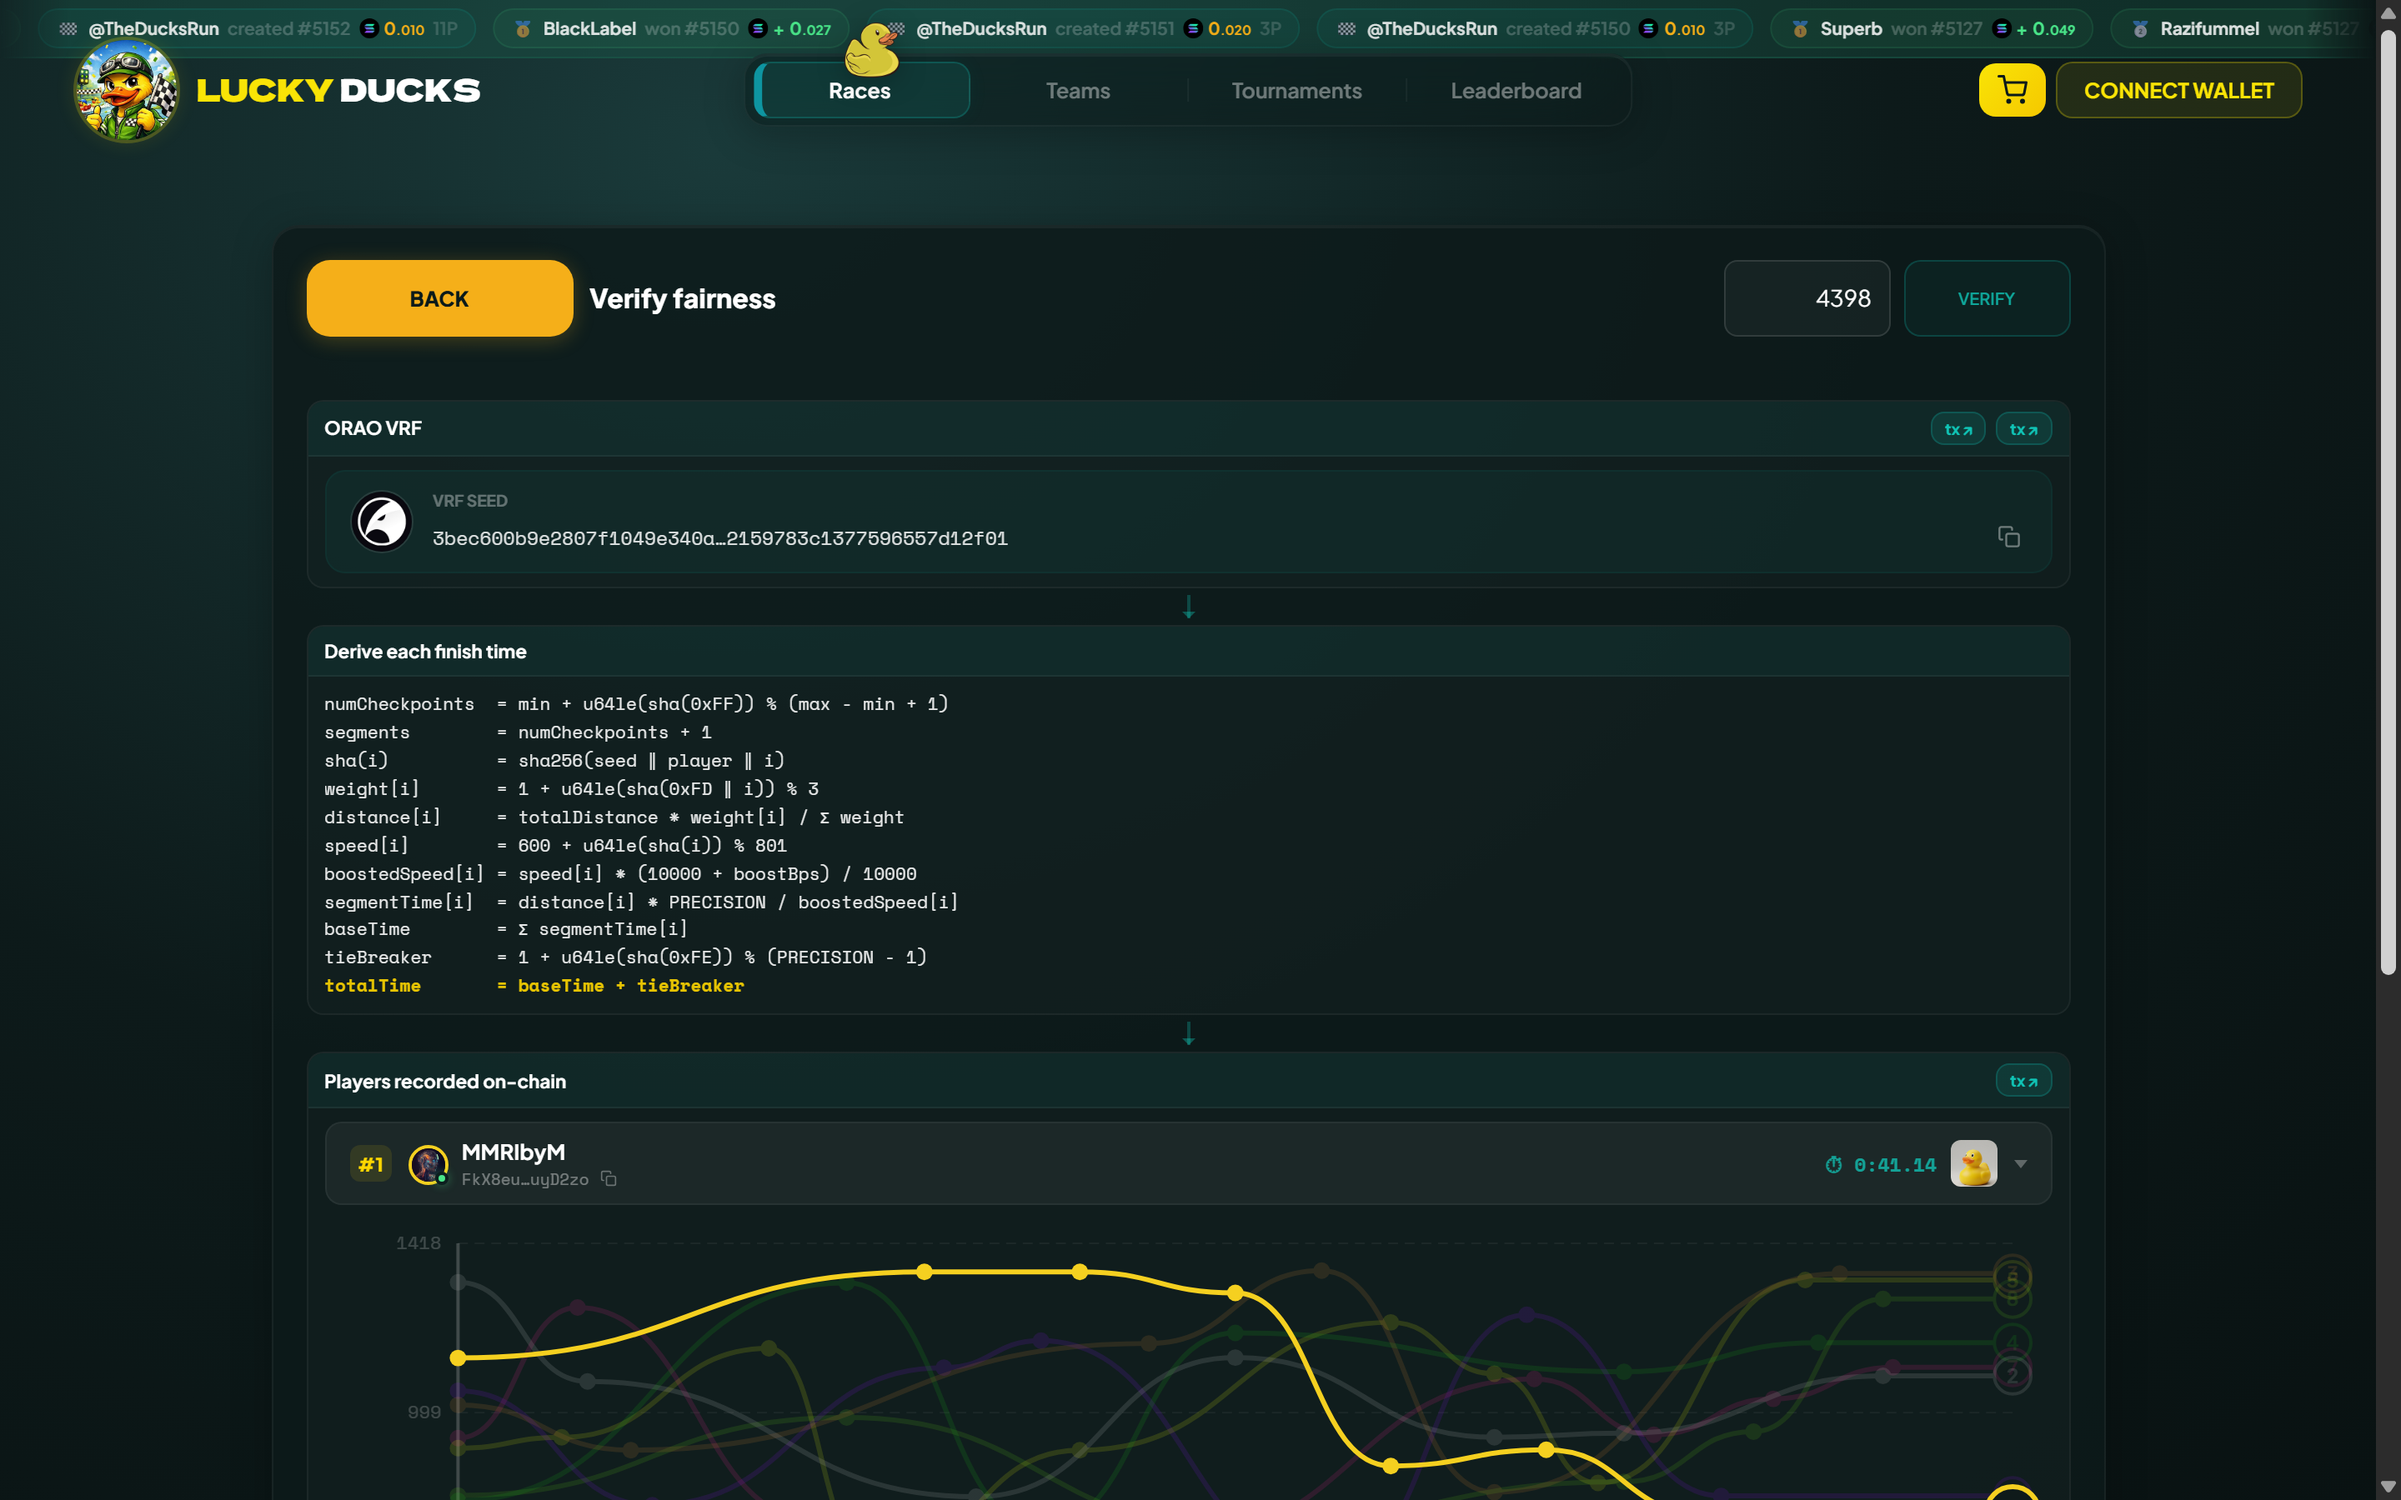
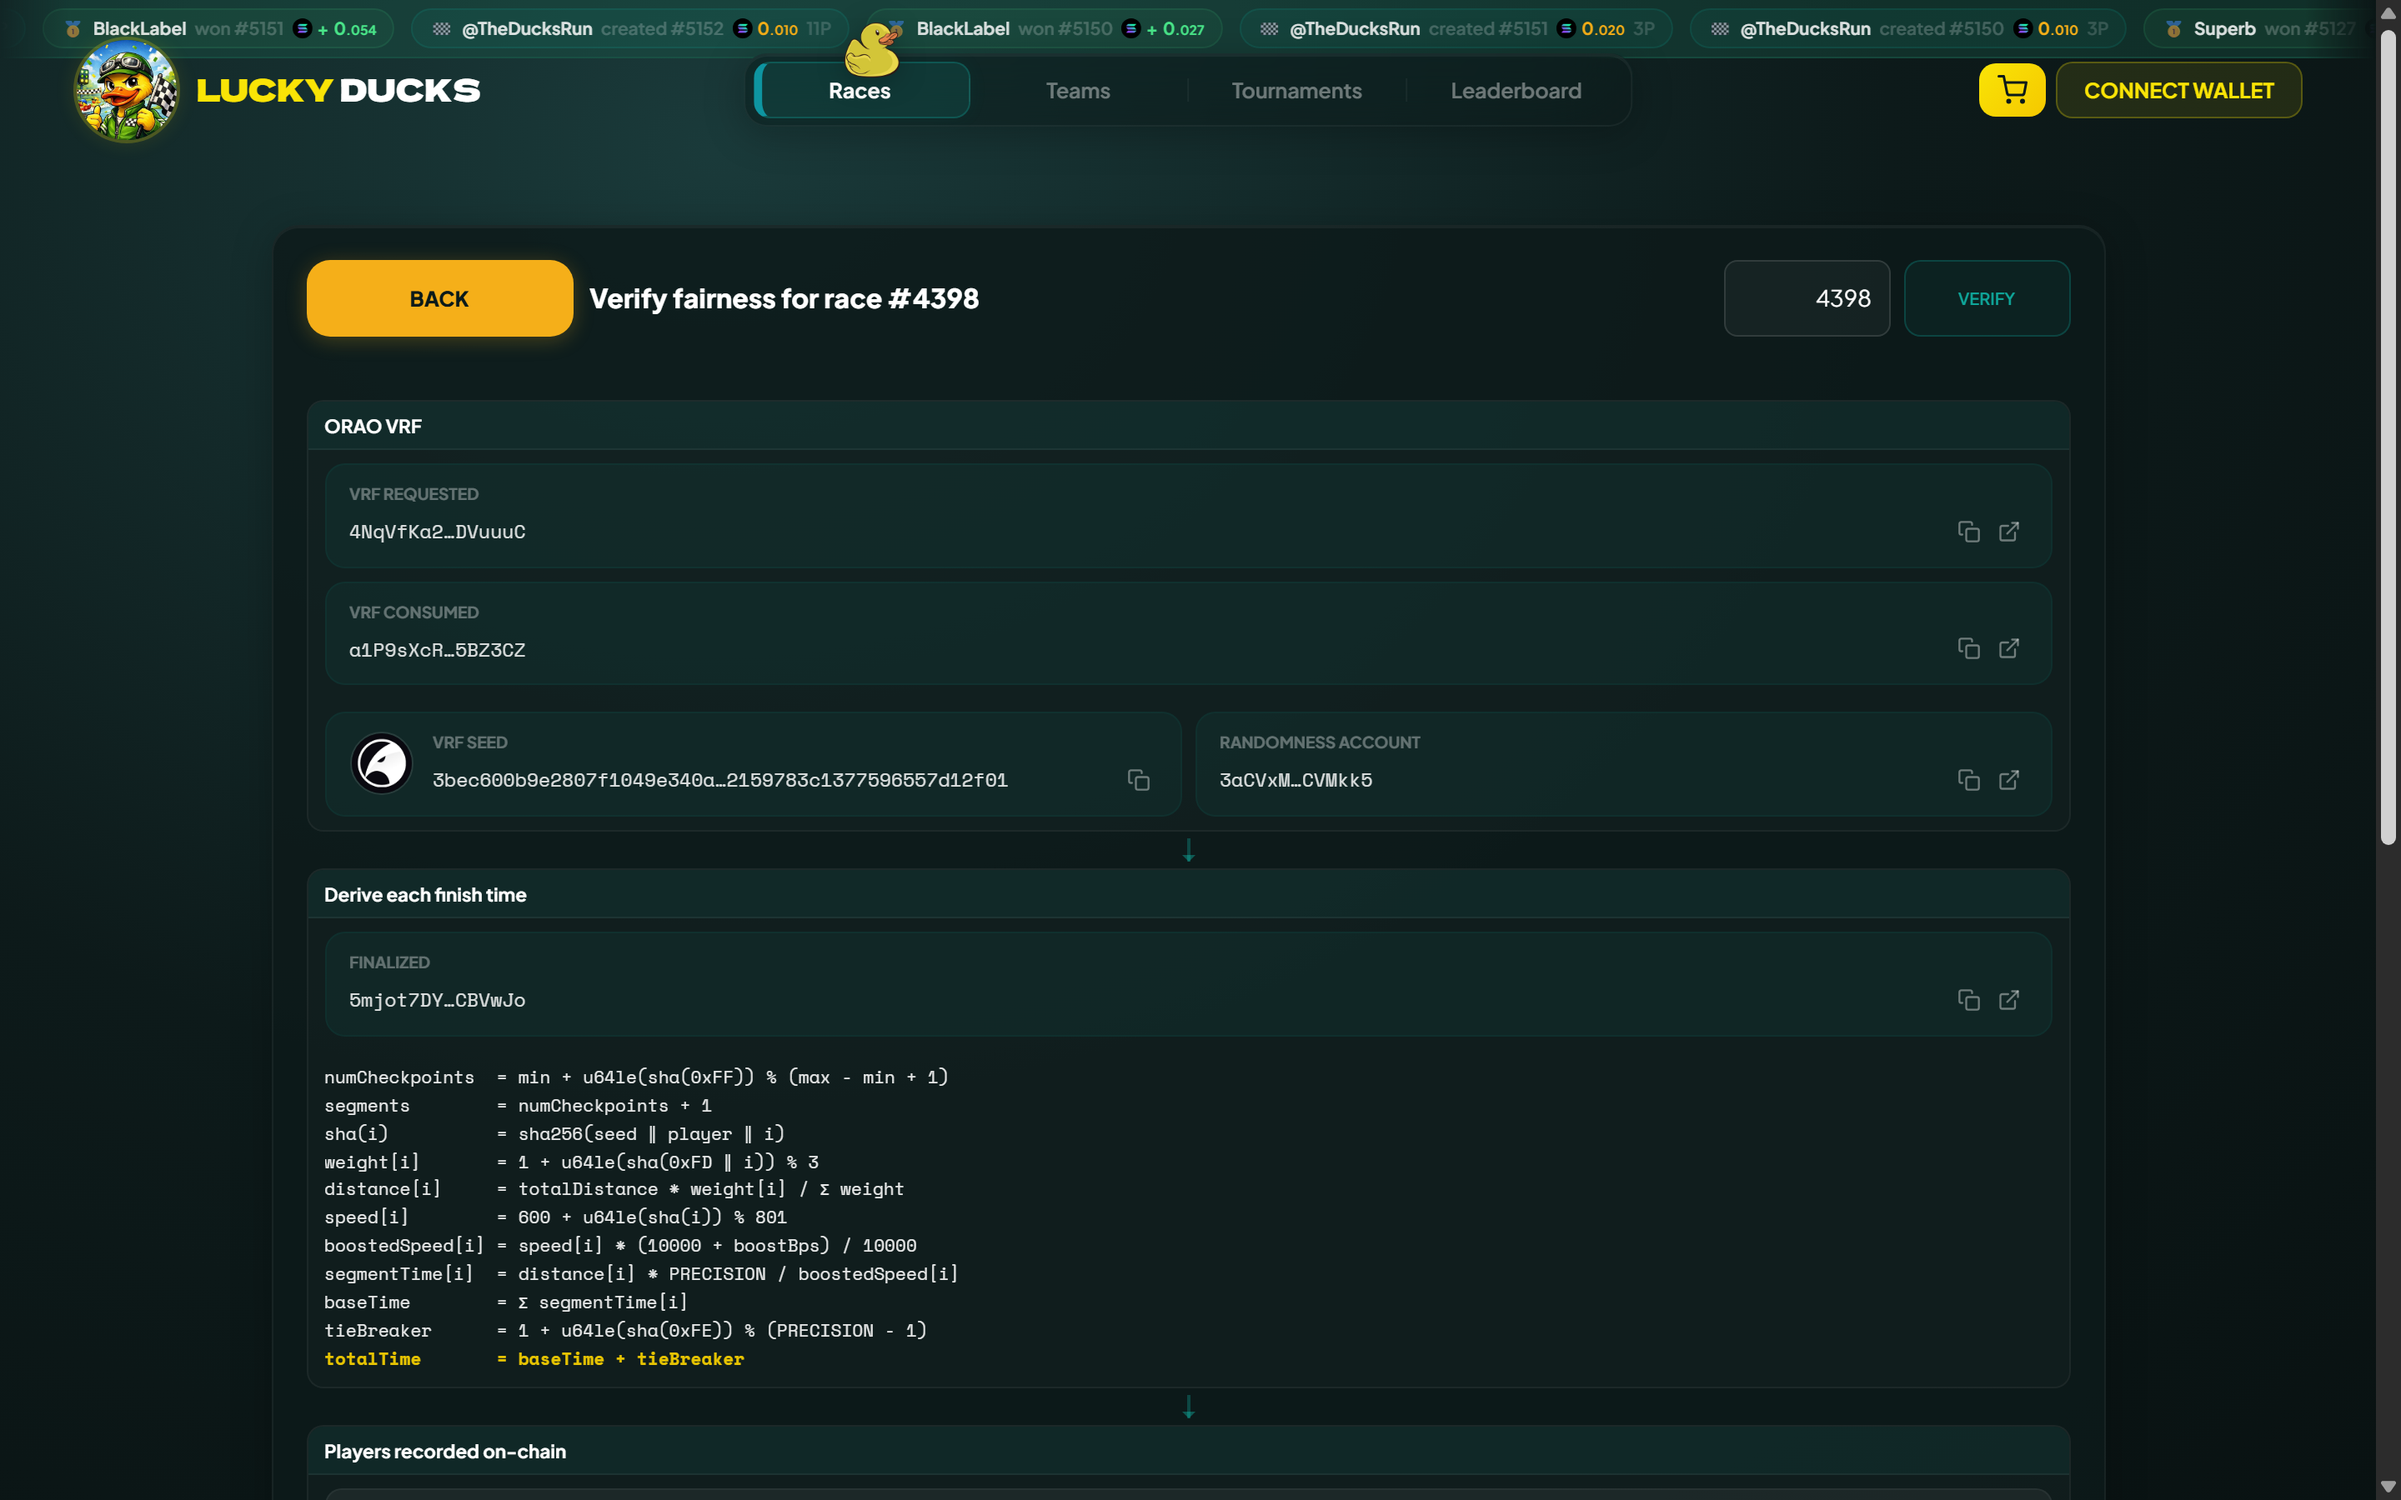
GITBOOK-43.10: No subject

diff --git a/docs/trust/verifying-a-race.md b/docs/trust/verifying-a-race.md
@@ -19,7 +19,9 @@ Three ways in:
 
 <figure><img src="../../.gitbook/assets/trust/app-verify-entry-banner.png" alt="The Verify fairness panel inside a finished race, showing the ORAO seed and the Verify link"><figcaption><p>Inside a finished race: the seed, and the link that opens the full working.</p></figcaption></figure>
 
-Top to bottom, the screen shows the ORAO randomness account and the seed it published, the formula the program applies to every player, every racer in finishing order with the time recomputed for them, the speed curves of the whole field, and the segment by segment working behind any one racer. The randomness and the recorded result each link to the transaction they came from.
+Top to bottom, the screen shows the randomness ORAO published, the formula the program applies to every player, every racer in finishing order with the time recomputed for them, the speed curves of the whole field, and the segment by segment working behind any one racer.
+
+Each address and signature sits in its own labelled box: **VRF requested** and **VRF consumed**, the two transactions behind the randomness; the **VRF seed** itself; the **Randomness account** ORAO wrote it to; and **Finalized**, the transaction that recorded the result. Every box copies with a click and opens in a Solana explorer, which is where the rest of this page picks the story up.
 
 The race's own modal keeps three panels that save you the lookups: **Race info**, the figures the account holds; **Transactions**, every signature on the race in order, from creation to claim; and **Addresses**, the program, the race account and the rest, ready to paste into an explorer.
 
